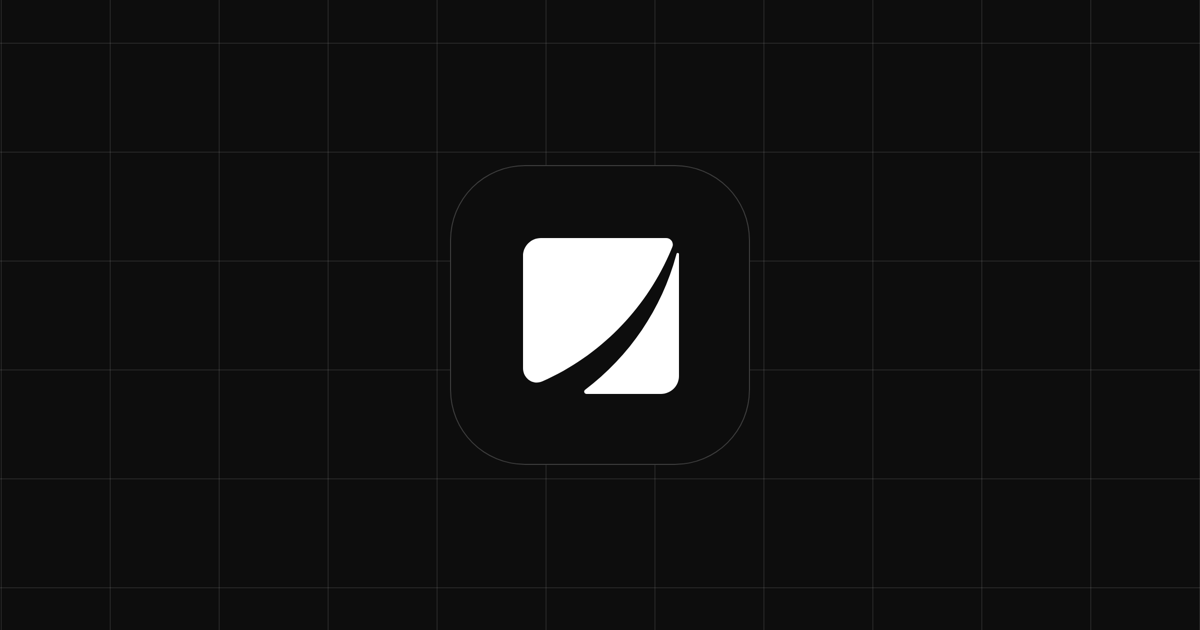
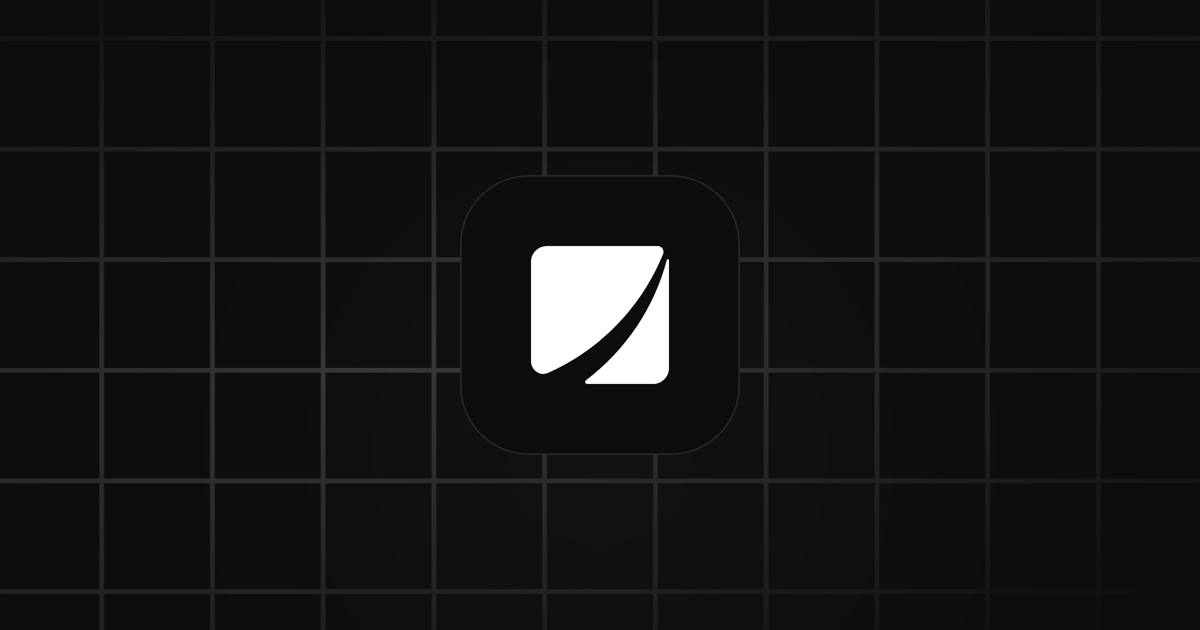
Rebuild the OG card from the Figma spec instead of an approximation
Measured off Q9L6q38dEj3Qu1JkjiT13y node 299:4187, not traced from a
screenshot. Four things were wrong in the first pass:

  pattern  a CSS grid of uniform 10%-white lines. The real one is an
           exported vector, 1445x1001 bleeding past the frame, with a
           radial gradient #767676 -> #0D0D0D on the stroke at opacity
           0.4. That falloff is the whole character of the card and CSS
           was never going to reproduce it.
  border   neutral-alpha-20-white -> neutral-900 #262a2e
  shadow   absent -> 0 138.272px 172.839px rgba(88,92,95,0.16)
  tile     300/radius 75 -> 280/radius 69.136 (radius/8)

Keeps the exported vectors and the render source in assets/og/, since the
Figma asset URLs they came from expire after seven days.

Changed region(s): [[0.0, 0.2111, 0.6783, 0.8746], [0.4317, 0.3619, 0.5858, 0.6333], [0.6167, 0.3016, 0.8017, 0.6635]]

diff --git a/assets/og/_source.html b/assets/og/_source.html
@@ -1,0 +1,34 @@
+<!doctype html>
+<html><head><meta charset="utf-8">
+<style>
+  /* OG card 1200x630 — measured from Figma Q9L6q38dEj3Qu1JkjiT13y node 299:4187 ("OG"),
+     not eyeballed from a screenshot.
+
+       frame bg     colors/neutral/black  #0d0d0d
+       pattern      299:4188 "Vector" — 1445x1001, centred, bleeds past the frame.
+                    Radial gradient #767676 -> #0D0D0D on the stroke at opacity 0.4.
+                    Used as the real exported vector; a CSS grid cannot reproduce it.
+       tile         299:4190 gushwork-logo-(internal-use)
+                      size    280 (138.272 mark + 69.136 padding x2 + 1.728 border x2)
+                      radius  69.136   (radius/8)
+                      border  1.728 solid colors/neutral/900 #262a2e
+                      shadow  0 138.272px 172.839px rgba(88,92,95,0.16)
+                      centre  (600, 315) — container 330 at left 435 top 150, centred
+       mark         138.272 */
+  *{margin:0;padding:0;box-sizing:border-box}
+  html,body{width:1200px;height:630px;overflow:hidden}
+  body{background:#0d0d0d;position:relative}
+  .pattern{position:absolute;left:50%;top:50%;transform:translate(-50%,-50%);
+           width:1445px;height:1001px}
+  .pattern img{display:block;width:100%;height:100%}
+  .tile{position:absolute;left:50%;top:50%;transform:translate(-50%,-50%);
+        width:280px;height:280px;border-radius:69.136px;
+        border:1.728px solid #262a2e;background:#0d0d0d;
+        display:flex;align-items:center;justify-content:center;
+        filter:drop-shadow(0px 138.272px 172.839px rgba(88,92,95,0.16))}
+  .tile img{display:block;width:138.272px;height:138.272px}
+</style></head>
+<body>
+  <div class="pattern"><img src="pattern.svg" alt=""></div>
+  <div class="tile"><img src="mark.svg" alt=""></div>
+</body></html>
